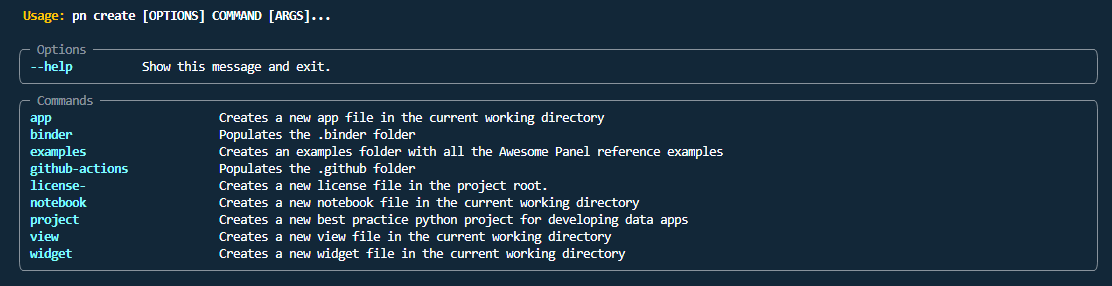
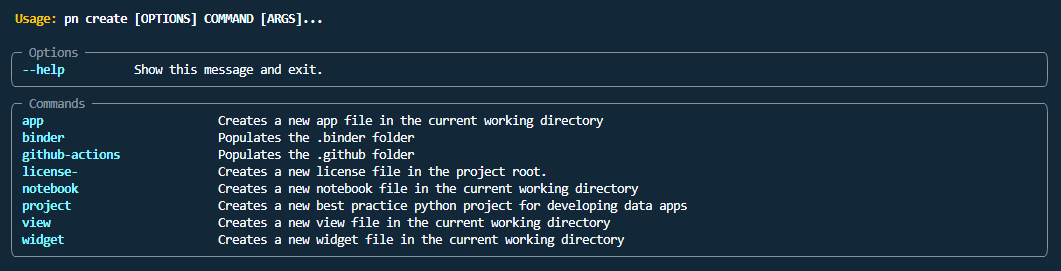
fix

Changed region(s): [[0.0, 0.1476, 0.9953, 0.9151], [0.0311, 0.9446, 0.9642, 0.9742], [0.0, 0.0295, 0.311, 0.0886]]

diff --git a/src/awesome_panel_cli/cli/create.py b/src/awesome_panel_cli/cli/create.py
@@ -213,31 +213,6 @@ def widget(name: config.Widget = typer.Argument(config.Widget.VIEWER), example: 
 
 
 @app.command()
-def examples(target="examples"):
-    """Creates an examples folder with all the Awesome Panel reference examples"""
-    _examples = Path.cwd() / target
-    if _examples.exists():
-        logger.error("The folder %s already exists! Please delete it first and rerun.", _examples)
-        return
-
-    try:
-        for _source, _target_dir in [
-            (config.REFERENCE_APPS, "apps"),
-            (config.REFERENCE_NOTEBOOKS, "notebooks"),
-            (config.REFERENCE_VIEWS, "views"),
-            (config.REFERENCE_WIDGETS, "widgets"),
-        ]:
-            _target = _examples / _target_dir
-
-            shutil.copytree(_source, _target)
-        logger.info("created: %s", _target)
-    except Exception as ex:  # pylint: disable=broad-except
-        if _examples.exists():
-            shutil.rmtree(_examples)
-            logger.exception("Could not create examples folder", exc_info=ex)
-
-
-@app.command()
 def github_actions():
     """Populates the .github folder"""
     _copy_tree(

diff --git a/tests/test_create.py b/tests/test_create.py
@@ -78,17 +78,6 @@ def test_create_widget_example(tmpdir):
         assert target.exists()
 
 
-def test_create_examples(tmpdir):
-    """We can create an examples folder"""
-    with set_directory(tmpdir):
-        create.examples()
-        examples = Path("examples")
-        assert (examples / "apps" / "hello_world.py").exists()
-        assert (examples / "notebooks" / "introduction.ipynb").exists()
-        assert (examples / "views" / "view_html.py").exists()
-        assert (examples / "widgets" / "viewer.py").exists()
-
-
 def test_create_github(tmpdir):
     """We can create a .github actions folder"""
     with set_directory(tmpdir):
